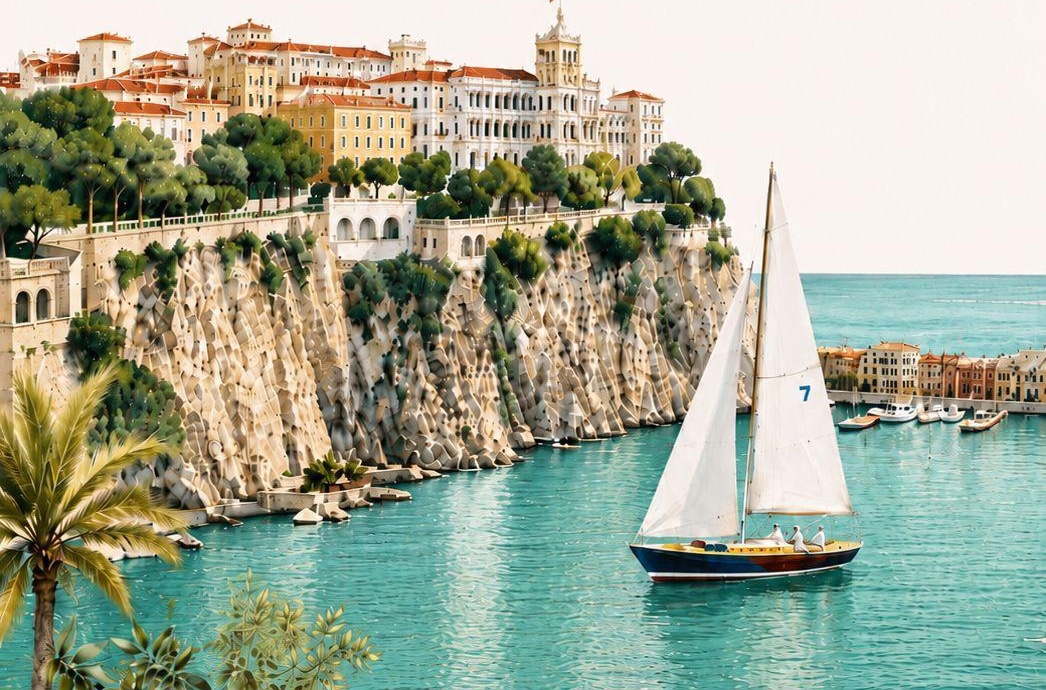
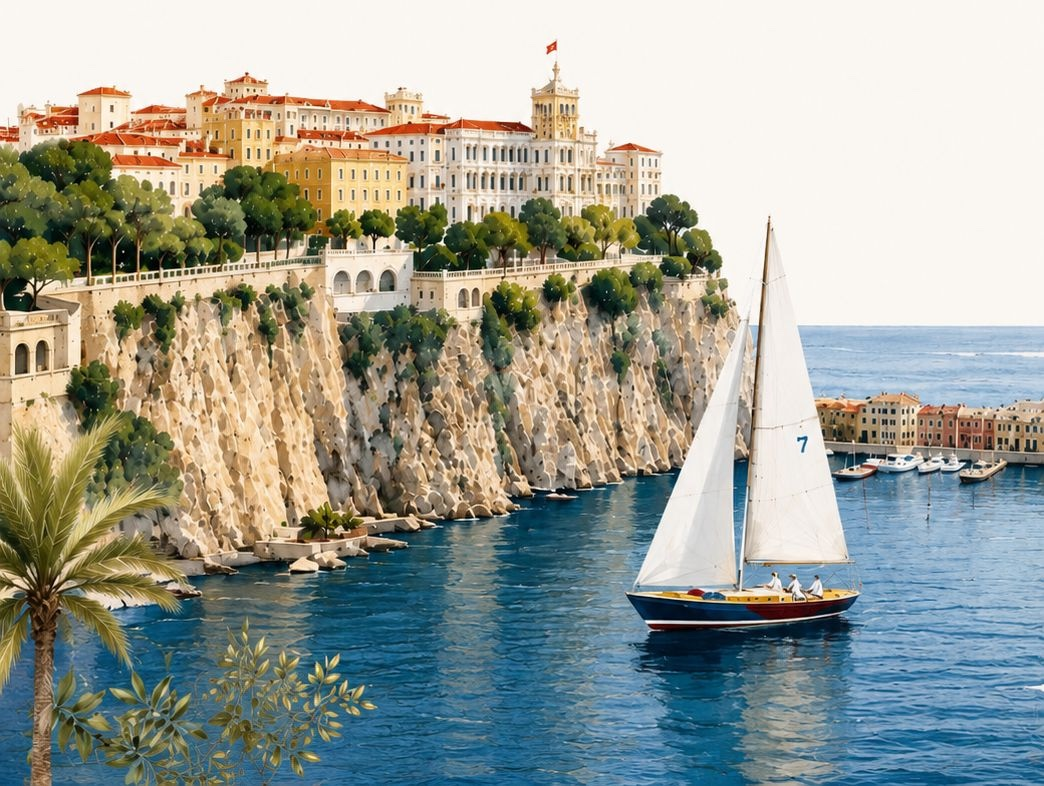
v2: new richer Monaco image (text removed), centered with less sky; invitation near-full-width with smaller text that fills the card

diff --git a/v2/index.html b/v2/index.html
@@ -11,8 +11,8 @@
 <meta property="og:description" content="With gratitude to Hashem, join us at the Yacht Club de Monaco. Event details, hotels & RSVP.">
 <!-- For the preview IMAGE to show in WhatsApp/iMessage: host og.jpg next to this file and change the two URLs below to the FULL address, e.g. https://your-domain/og.jpg -->
 <meta property="og:image" content="https://simseb5.github.io/wedding/v2/hero.jpg">
-<meta property="og:image:width" content="1046">
-<meta property="og:image:height" content="690">
+<meta property="og:image:width" content="1044">
+<meta property="og:image:height" content="786">
 <meta name="twitter:card" content="summary_large_image">
 <meta name="twitter:title" content="Uma & Simón — 18 August 2026 · Monaco">
 <meta name="twitter:image" content="https://simseb5.github.io/wedding/v2/hero.jpg">
@@ -520,7 +520,6 @@ var RSVP_EMAIL    = "[email redacted]";   // email fallback (used only i
 </script>
 
 <style id="v2-overrides">
-/* DARKER navy envelope + invite borders */
 .env-back{background:linear-gradient(160deg,#2E4E78,#1B3656);border-color:#142B49}
 .env-flap{background:linear-gradient(180deg,#2A4669,#1B3656)}
 .env-pocket{background:linear-gradient(180deg,#233E62,#15304E)}
@@ -528,36 +527,32 @@ var RSVP_EMAIL    = "[email redacted]";   // email fallback (used only i
 .invite-card{border-color:#234268}
 .invite-card::before{border-color:rgba(35,66,104,.45)}
 .invite-card::after{border-color:rgba(35,66,104,.30)}
-/* navy writing + gold ampersand */
 #invitation .invite-card{--slate:#2B4C77;--slate-2:#3F5C84}
 #invitation .couple .nm .amp{color:var(--gold)}
-/* remove the U&S divider monogram, keep a clean line */
 #invitation .invite-card .rule .monogram{display:none}
 #invitation .invite-card .rule{gap:0}
-/* parents' family names: each on its own single line */
 #invitation .invite-card .hosts{flex-direction:column;align-items:center;gap:3px}
 #invitation .invite-card .hosts .fam{flex:0 0 auto;text-align:center}
-/* hero: portrait, fills the screen */
 .bg{background-size:cover;background-repeat:no-repeat;background-position:center;opacity:.16}
 .intro-car{background-size:cover;background-repeat:no-repeat;background-position:center}
 @keyframes carDrive{0%{opacity:0}16%{opacity:1}100%{opacity:1}}
-/* bigger envelope */
 .envelope{width:min(94vw,480px);height:calc(min(94vw,480px)*.7)}
-/* invitation: wider, compact, fits one screen */
-#invitation.is-active{height:100dvh;display:flex;flex-direction:column;align-items:center;justify-content:center;overflow:hidden;padding:6px 6px calc(var(--tabbar) + env(safe-area-inset-bottom) + 6px);box-sizing:border-box}
-.invite-card{margin:0 auto;max-width:min(98vw,520px);flex:0 0 auto;padding:clamp(16px,3.4vw,26px) clamp(16px,4.4vw,30px);gap:clamp(5px,1.1vh,9px)}
-.invite-card .blessing{font-size:clamp(.86rem,3.4vw,1.05rem)}
-.invite-card .hosts .fam{font-size:clamp(.82rem,3.1vw,1rem)}
-.invite-card .request{font-size:clamp(.84rem,3vw,1rem)}
-.invite-card .couple .nm{font-size:clamp(1.8rem,8.4vw,2.5rem)}
-.invite-card .couple .he span{font-size:clamp(.82rem,3vw,1rem)}
-.invite-card .when .date{font-size:clamp(1rem,3.7vw,1.25rem)}
-.invite-card .when .hdate{font-size:clamp(.78rem,2.6vw,.92rem)}
-.invite-card .venue{font-size:clamp(.92rem,3.3vw,1.12rem)}
-.invite-card .cer{font-size:clamp(.82rem,2.8vw,.98rem)}
-.invite-card .dress{font-size:clamp(.82rem,2.8vw,.95rem)}
-.invite-card .rsvp{font-size:clamp(.84rem,2.9vw,1rem)}
-.invite-card .bh{font-size:.85rem}
+/* invitation: near-full-width, smaller + compact, fit one screen */
+#invitation.is-active{height:100dvh;display:flex;flex-direction:column;align-items:center;justify-content:center;overflow:hidden;padding:4px 3px calc(var(--tabbar) + env(safe-area-inset-bottom) + 4px);box-sizing:border-box}
+.invite-card{margin:0 auto;width:min(99vw,560px);max-width:min(99vw,560px);flex:0 0 auto;padding:clamp(11px,2.4vw,18px) clamp(14px,4vw,26px);gap:clamp(3px,.7vh,6px)}
+.invite-card .blessing,.invite-card .request,.invite-card .cer{max-width:none}
+.invite-card .blessing{font-size:clamp(.76rem,3vw,.95rem)}
+.invite-card .hosts .fam{font-size:clamp(.74rem,2.8vw,.9rem)}
+.invite-card .request{font-size:clamp(.74rem,2.7vw,.92rem)}
+.invite-card .couple .nm{font-size:clamp(1.5rem,7vw,2.05rem)}
+.invite-card .couple .he span{font-size:clamp(.74rem,2.7vw,.9rem)}
+.invite-card .when .date{font-size:clamp(.88rem,3.3vw,1.08rem)}
+.invite-card .when .hdate{font-size:clamp(.7rem,2.3vw,.84rem)}
+.invite-card .venue{font-size:clamp(.82rem,3vw,1rem)}
+.invite-card .cer{font-size:clamp(.73rem,2.5vw,.88rem)}
+.invite-card .dress{font-size:clamp(.73rem,2.5vw,.88rem)}
+.invite-card .rsvp{font-size:clamp(.74rem,2.6vw,.9rem)}
+.invite-card .bh{font-size:.78rem}
 @keyframes cardArrive{0%{opacity:0}100%{opacity:1}}
 </style>
 <script>
@@ -566,7 +561,7 @@ var RSVP_EMAIL    = "[email redacted]";   // email fallback (used only i
     var card=document.querySelector('#invitation .invite-card'); if(!card) return;
     card.style.zoom='1'; var h=card.offsetHeight; if(!h) return;
     var tab=document.querySelector('.tabbar');
-    var s=Math.min(1,(window.innerHeight-(tab?tab.offsetHeight:84)-20)/h);
+    var s=Math.min(1,(window.innerHeight-(tab?tab.offsetHeight:84)-14)/h);
     card.style.zoom=s.toFixed(4);
   }
   ['DOMContentLoaded','load','resize','orientationchange'].forEach(function(e){window.addEventListener(e,fit);});